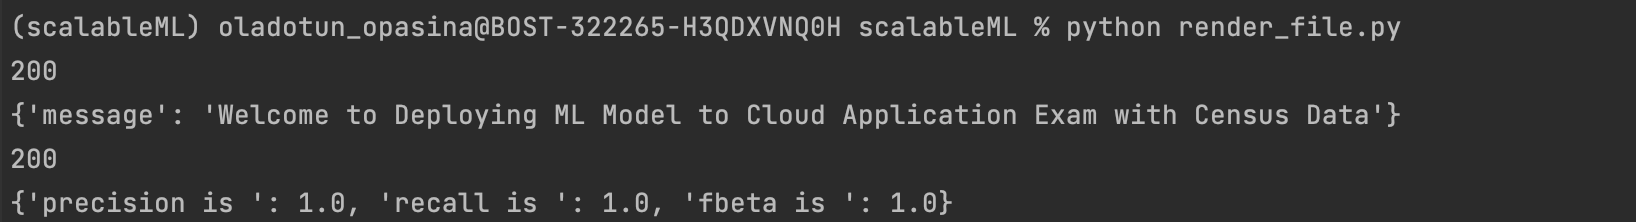
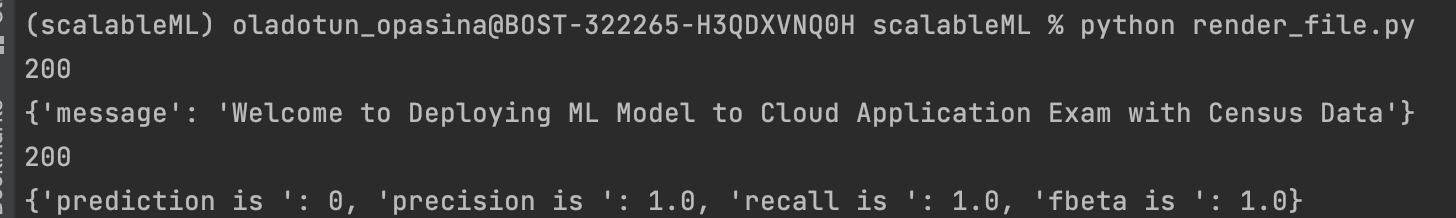
Completed feedback from reviewer

diff --git a/render_file.py b/render_file.py
@@ -12,9 +12,22 @@ response = requests.get('https://render-scalableml.onrender.com/')
 print(response.status_code)
 print(response.json())
 
-data ={"workclass":'Private', "education":'Bachelors', "marital_status":'Never-married',
-           "occupation":'Adm-clerical', "relationship":'Not-in-family',"race":'White',
-           "sex":'Male', "native_country":'Cuba', "salary":'<=50K'}
+data ={"age": 30,
+      "workclass": "Private",
+      "fnlgt": 123455,
+      "education": "Bachelors",
+      "education-num": 10,
+      "marital-status": "Never-married",
+      "occupation": "Adm-clerical",
+      "relationship": "Not-in-family",
+      "race": "White",
+      "sex": "Male",
+      "capital-gain": 10,
+      "capital-loss": 0,
+      "hours-per-week": 40,
+      "native-country": "Cuba",
+      "salary": "<=50K"
+    }
 response = requests.post('https://render-scalableml.onrender.com/predict_salary',
                          headers=headers, data=json.dumps(data))
 print(response.status_code)

diff --git a/README.md b/README.md
@@ -1,1 +1,23 @@
-# scalableML
+# Scalable ML Live Deployment Udacity Submission
+# Environment Set up
+* Download and install conda if you don’t have it already.
+    * Use the supplied requirements file to create a new environment, or
+    * conda create -n [envname] "python=3.8" scikit-learn pandas numpy pytest jupyter jupyterlab fastapi uvicorn -c conda-forge
+    * Install git either through conda (“conda install git”) or through your CLI, e.g. sudo apt-get git.
+    * Install the needed files requirements text using pip install -r requirements
+
+## Repositories
+* Clone output from: https://github.com/dotunQB/scalableML
+# Data
+* Get data from the data folder present in the repo
+* Data is called census.csv
+
+# Model
+* Model written using logistic regression to predict the salary based on census data
+
+# API Creation
+*  A rest end point has been created, to run locally try the following: 
+  * uvicorn main:app --reload 
+
+# API Deployment
+* This model has been deployed live on render can be found in the following link: https://render-scalableml.onrender.com
